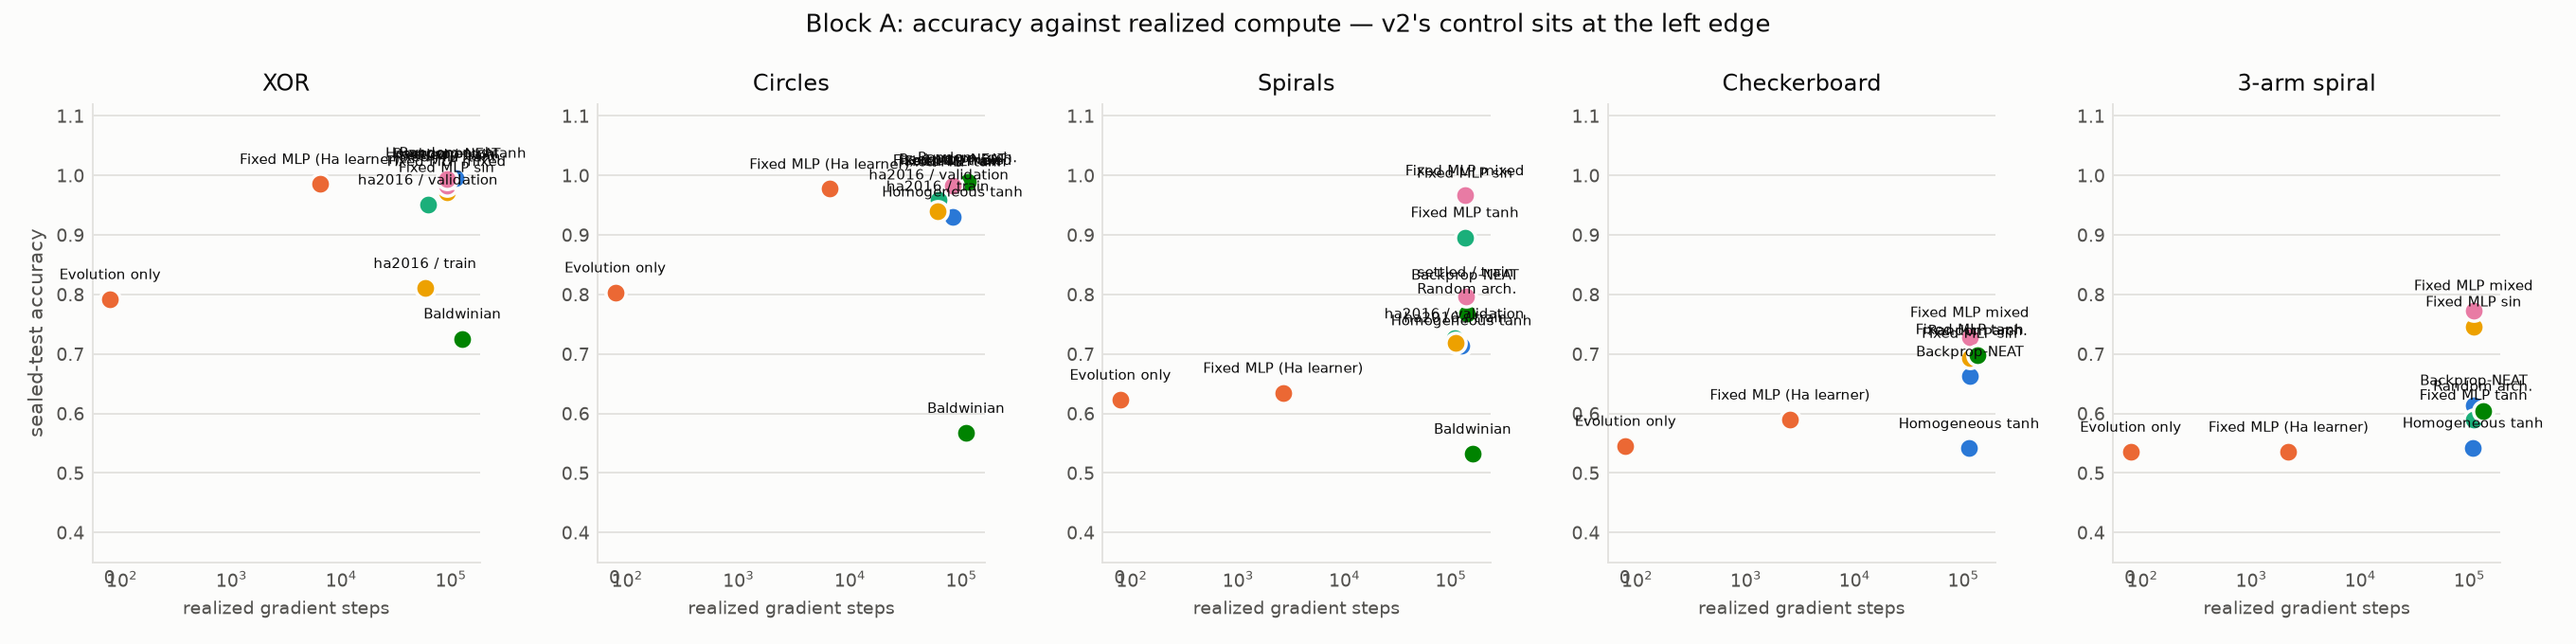
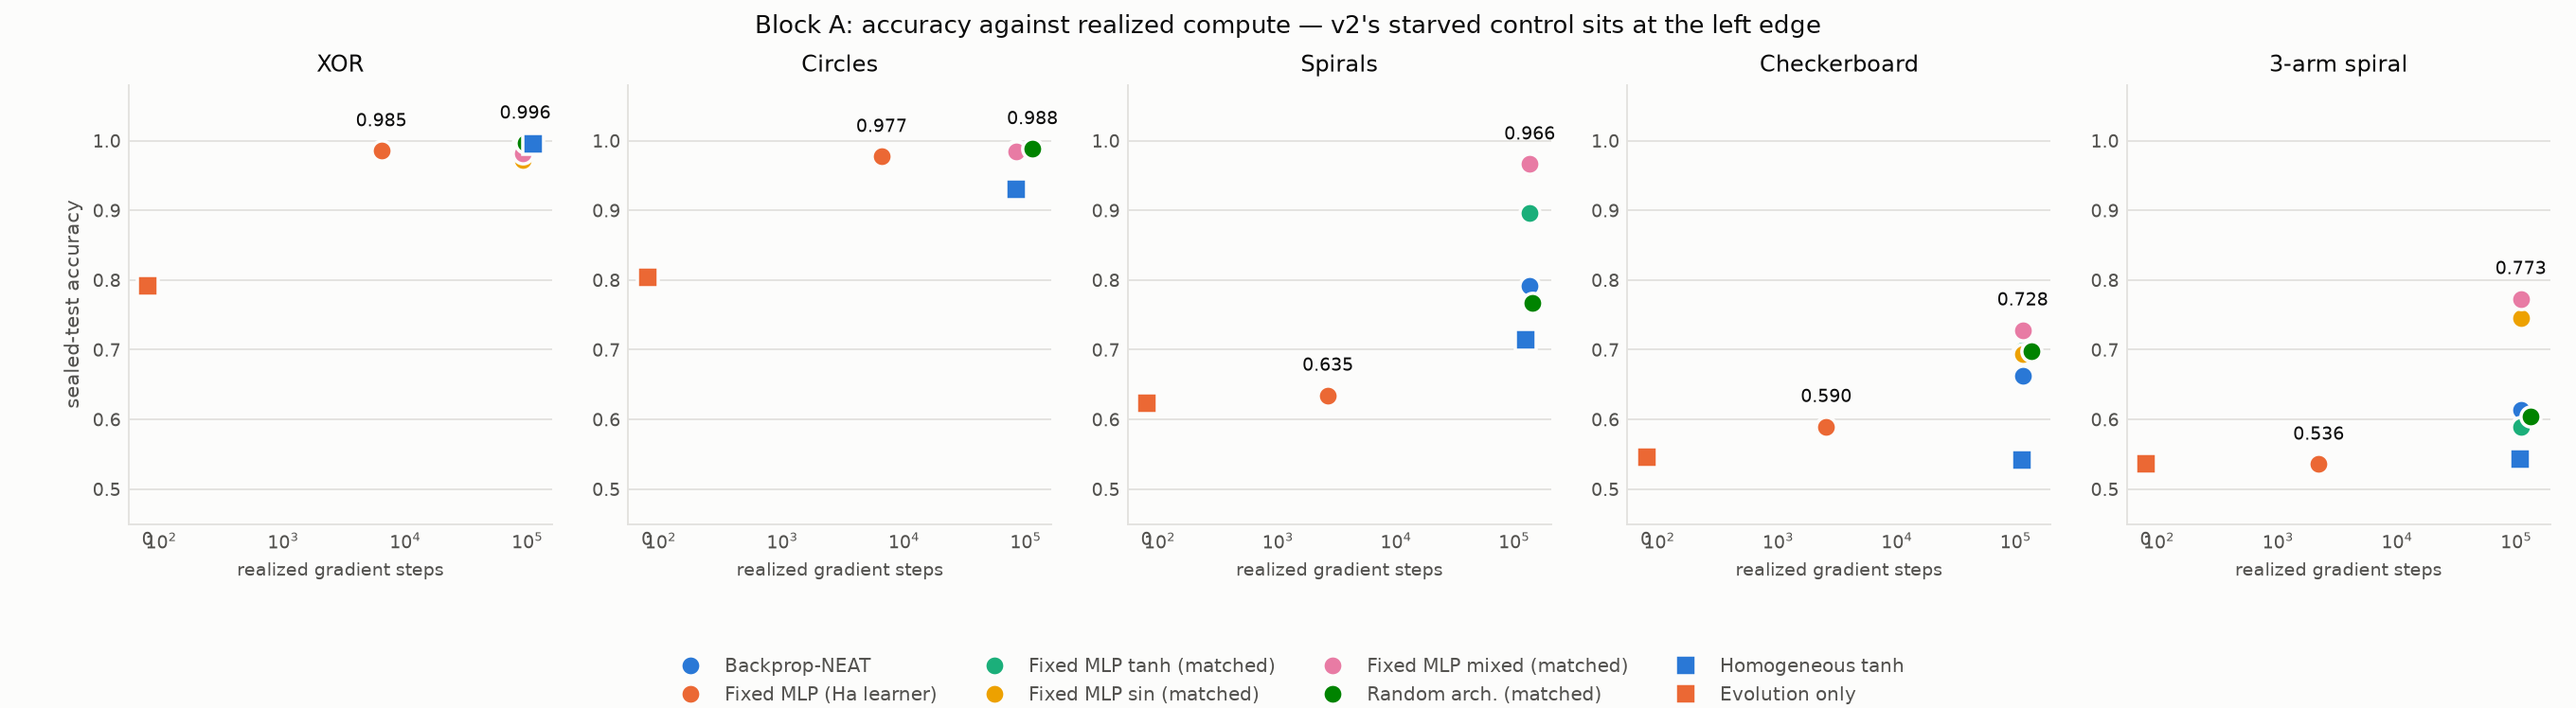
Figures: fix the compute plot's scope, legibility and palette
The Block A compute figure labelled every point, which made eight
clustered conditions unreadable, and it plotted conditions from Blocks
B, C and D that do not belong to a figure about controls and budgets.

It now shows Block A only, carries identity in a shared legend, and
direct-labels just the two points that make the argument: v2's starved
control and the best matched one.

It also violated the palette rule. Eight conditions over a six-hue
validated palette meant cycling - Backprop-NEAT and Homogeneous tanh
both blue, the Ha-learner control and Evolution only both orange. Hues
are no longer cycled; the two repeats are disambiguated by marker shape,
so every condition has a unique (colour, marker) pair.

Claude-Session: https://claude.ai/code/session_01GP1bnJXe8xy12aBhsum7ab

diff --git a/src/bpneat/v3/figures.py b/src/bpneat/v3/figures.py
@@ -131,31 +131,78 @@ def stability(matrix: list[dict], out: Path) -> Path | None:
     return _save(fig, out / "stability-matrix.png", bottom=0.30, left=0.30, top=0.88, right=0.99)
 
 
+#: Block A only. The compute figure is about controls and budgets; the
+#: propagation, selection and inheritance conditions belong to other blocks.
+#: Eight conditions over a six-hue validated palette. Hues are never cycled —
+#: a repeated hue is disambiguated by marker shape, so every condition has a
+#: unique (colour, marker) pair and identity never rests on colour alone.
+BLOCK_A_STYLE = {
+    "backprop_neat": (0, "o"),
+    "fixed_mlp_tanh_ha": (1, "o"),
+    "fixed_mlp_tanh_matched": (2, "o"),
+    "fixed_mlp_sin_matched": (3, "o"),
+    "fixed_mlp_mixed_matched": (4, "o"),
+    "random_search_matched": (5, "o"),
+    "homogeneous_tanh": (0, "s"),
+    "evolution_only": (1, "s"),
+}
+
+BLOCK_A = (
+    "backprop_neat",
+    "fixed_mlp_tanh_ha",
+    "fixed_mlp_tanh_matched",
+    "fixed_mlp_sin_matched",
+    "fixed_mlp_mixed_matched",
+    "random_search_matched",
+    "homogeneous_tanh",
+    "evolution_only",
+)
+
+
 def budget_vs_accuracy(summary: list[dict], out: Path) -> Path:
-    """Block A: accuracy against the compute each condition actually spent."""
+    """Block A: accuracy against the compute each condition actually spent.
+
+    A shared legend carries identity; only the two conditions that make the
+    point — v2's starved control and the best matched one — are labelled in
+    place, because labelling eight clustered points makes all eight unreadable.
+    """
     by = {(r["task"], r["condition"]): r for r in summary}
-    conds = [c for c in LABEL if any((t, c) in by for t in TASKS)]
-    fig, axes = _fig(1, 5, figsize=(16, 4.0))
+    fig, axes = _fig(1, 5, figsize=(16, 4.4))
+    handles: dict[str, object] = {}
     for ax, task in zip(axes, TASKS):
-        for i, c in enumerate(conds):
+        best_matched = max(
+            (c for c in BLOCK_A if c.endswith("_matched") and (task, c) in by),
+            key=lambda c: by[(task, c)].get("test_accuracy_mean", 0.0),
+            default=None,
+        )
+        for c in BLOCK_A:
             r = by.get((task, c))
             if r is None or "test_accuracy_mean" not in r:
                 continue
-            ax.plot(max(r["gradient_steps_mean"], 1), r["test_accuracy_mean"], "o",
-                    markersize=9, color=SERIES[i % len(SERIES)],
-                    markeredgecolor=SURFACE, markeredgewidth=1.5)
-            ax.annotate(LABEL[c].replace(" (matched)", ""),
-                        (max(r["gradient_steps_mean"], 1), r["test_accuracy_mean"]),
-                        textcoords="offset points", xytext=(0, 9), ha="center",
-                        fontsize=6.5, color=INK)
+            slot, marker = BLOCK_A_STYLE[c]
+            x = max(r["gradient_steps_mean"], 1)
+            y = r["test_accuracy_mean"]
+            (h,) = ax.plot(x, y, marker, markersize=9, color=SERIES[slot],
+                           markeredgecolor=SURFACE, markeredgewidth=1.5)
+            handles.setdefault(LABEL[c], h)
+            if c in ("fixed_mlp_tanh_ha", best_matched):
+                ax.annotate(
+                    f"{y:.3f}", (x, y), textcoords="offset points",
+                    xytext=(0, 11), ha="center", fontsize=8, color=INK,
+                )
         ax.set_xscale("symlog", linthresh=1000)
         ax.set_title(TASK_LABEL[task], color=INK, fontsize=10)
         ax.set_xlabel("realized gradient steps", color=INK2, fontsize=8)
-        ax.set_ylim(0.35, 1.12)
+        ax.set_ylim(0.45, 1.08)
     axes[0].set_ylabel("sealed-test accuracy", color=INK2, fontsize=9)
-    fig.suptitle("Block A: accuracy against realized compute — v2's control sits at the left edge",
-                 color=INK, fontsize=11)
-    return _save(fig, out / "budget-vs-accuracy.png")
+    fig.legend(handles.values(), handles.keys(), frameon=False, fontsize=8.5,
+               labelcolor=INK2, ncol=4, loc="lower center", bbox_to_anchor=(0.5, -0.02))
+    fig.suptitle(
+        "Block A: accuracy against realized compute — v2's starved control sits at the left edge",
+        color=INK, fontsize=11,
+    )
+    return _save(fig, out / "budget-vs-accuracy.png",
+                 bottom=0.26, top=0.88, left=0.05, right=0.99, wspace=0.18)
 
 
 def block_a_effects(effects: list[dict], out: Path) -> Path | None:
